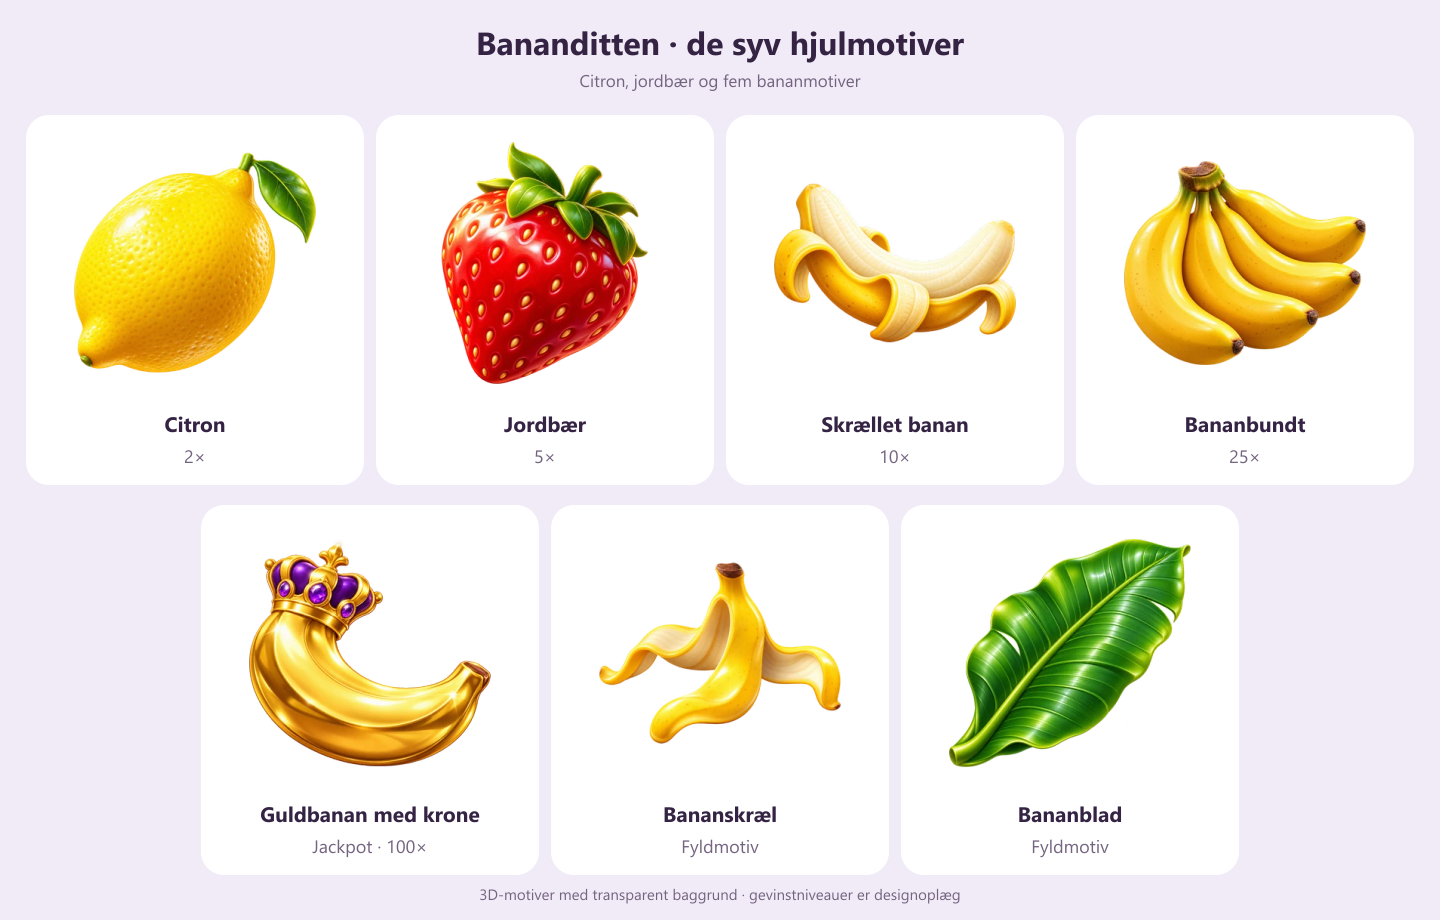
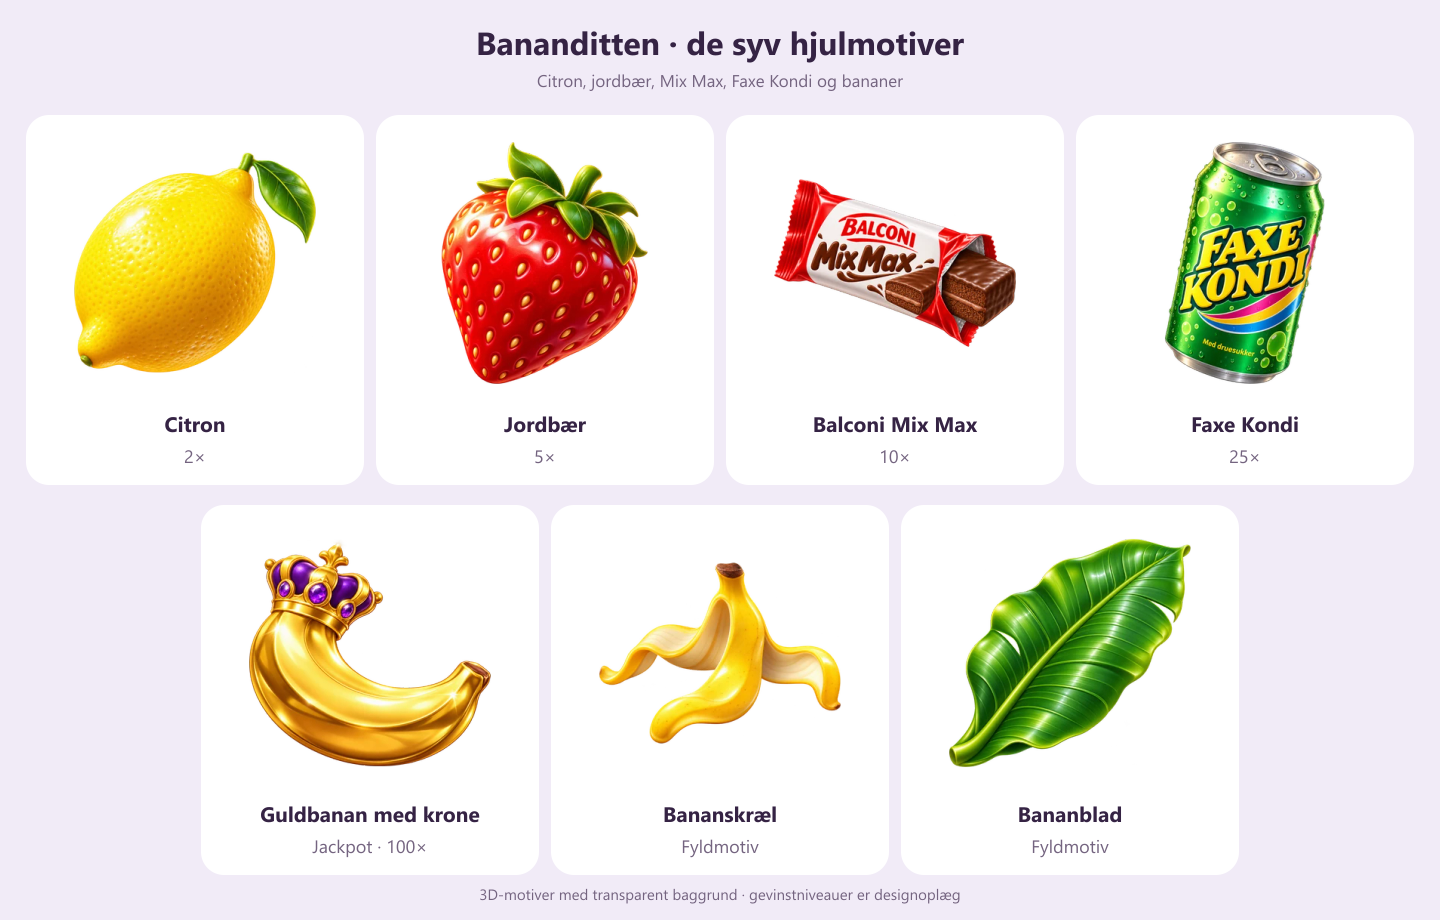
Replace two slot symbols with Mix Max and Faxe Kondi

diff --git a/docs/designs/bananditten-symbols/index.html b/docs/designs/bananditten-symbols/index.html
@@ -1,1 +1,1 @@
-<!doctype html><html lang="da"><meta charset="utf-8"><meta name="viewport" content="width=device-width,initial-scale=1"><title>Bananditten · motiver</title><style>body{font:16px system-ui;background:#1c1629;color:#fff0cc;margin:0;padding:28px}h1,p{text-align:center}main{max-width:1100px;margin:auto;display:grid;grid-template-columns:repeat(auto-fit,minmax(210px,1fr));gap:18px}figure{background:#2b213b;border-radius:24px;margin:0;padding:15px;text-align:center}img{width:100%;aspect-ratio:1;object-fit:contain}figcaption span{display:block;color:#b6a3c9;margin-top:7px}@media(prefers-color-scheme:light){body{background:#f1ebf7;color:#352344}figure{background:white}figcaption span{color:#746480}}</style><h1>Bananditten</h1><p>De syv hjulmotiver · gevinstniveauer er designoplæg</p><main><figure><img src="../../../public/games/bananditten/lemon.webp" alt="Citron"><figcaption><b>Citron</b><span>2×</span></figcaption></figure><figure><img src="../../../public/games/bananditten/strawberry.webp" alt="Jordbær"><figcaption><b>Jordbær</b><span>5×</span></figcaption></figure><figure><img src="../../../public/games/bananditten/peeled-banana.webp" alt="Skrællet banan"><figcaption><b>Skrællet banan</b><span>10×</span></figcaption></figure><figure><img src="../../../public/games/bananditten/banana-bunch.webp" alt="Bananbundt"><figcaption><b>Bananbundt</b><span>25×</span></figcaption></figure><figure><img src="../../../public/games/bananditten/crowned-banana.webp" alt="Guldbanan med krone"><figcaption><b>Guldbanan med krone</b><span>Jackpot · 100×</span></figcaption></figure><figure><img src="../../../public/games/bananditten/banana-peel.webp" alt="Bananskræl"><figcaption><b>Bananskræl</b><span>Fyldmotiv</span></figcaption></figure><figure><img src="../../../public/games/bananditten/banana-leaf.webp" alt="Bananblad"><figcaption><b>Bananblad</b><span>Fyldmotiv</span></figcaption></figure></main></html>
+<!doctype html><html lang="da"><meta charset="utf-8"><meta name="viewport" content="width=device-width,initial-scale=1"><title>Bananditten · motiver</title><style>body{font:16px system-ui;background:#1c1629;color:#fff0cc;margin:0;padding:28px}h1,p{text-align:center}main{max-width:1100px;margin:auto;display:grid;grid-template-columns:repeat(auto-fit,minmax(210px,1fr));gap:18px}figure{background:#2b213b;border-radius:24px;margin:0;padding:15px;text-align:center}img{width:100%;aspect-ratio:1;object-fit:contain}figcaption span{display:block;color:#b6a3c9;margin-top:7px}@media(prefers-color-scheme:light){body{background:#f1ebf7;color:#352344}figure{background:white}figcaption span{color:#746480}}</style><h1>Bananditten</h1><p>De syv hjulmotiver · gevinstniveauer er designoplæg</p><main><figure><img src="../../../public/games/bananditten/lemon.webp" alt="Citron"><figcaption><b>Citron</b><span>2×</span></figcaption></figure><figure><img src="../../../public/games/bananditten/strawberry.webp" alt="Jordbær"><figcaption><b>Jordbær</b><span>5×</span></figcaption></figure><figure><img src="../../../public/games/bananditten/mix-max.webp" alt="Balconi Mix Max"><figcaption><b>Balconi Mix Max</b><span>10×</span></figcaption></figure><figure><img src="../../../public/games/bananditten/faxe-kondi.webp" alt="Faxe Kondi"><figcaption><b>Faxe Kondi</b><span>25×</span></figcaption></figure><figure><img src="../../../public/games/bananditten/crowned-banana.webp" alt="Guldbanan med krone"><figcaption><b>Guldbanan med krone</b><span>Jackpot · 100×</span></figcaption></figure><figure><img src="../../../public/games/bananditten/banana-peel.webp" alt="Bananskræl"><figcaption><b>Bananskræl</b><span>Fyldmotiv</span></figcaption></figure><figure><img src="../../../public/games/bananditten/banana-leaf.webp" alt="Bananblad"><figcaption><b>Bananblad</b><span>Fyldmotiv</span></figcaption></figure></main></html>

diff --git a/docs/designs/bananditten-symbols/README.md b/docs/designs/bananditten-symbols/README.md
@@ -1,6 +1,6 @@
 # Bananditten – syv hjulmotiver
 
-2. november 2026. Genereret som syv separate kald med den indbyggede image_gen og `transparent_background: true`. Det fulde fælles prompt og de syv motivspecifikationer findes i [prompts.json](prompts.json). PNG-originalerne er gemt i denne mappe. De er visuelt kontrolleret, også samlet på lys og mørk baggrund.
+2. november 2026. Genereret med den indbyggede image_gen og `transparent_background: true`. Det første sæt findes i [prompts.json](prompts.json). Brugerens ændring fra skrællet banan/bananbundt til Balconi Mix Max/Faxe Kondi er beskrevet i [prompts-v2.json](prompts-v2.json). PNG-originalerne er gemt i denne mappe. De er visuelt kontrolleret, også samlet på lys og mørk baggrund.
 
 Optimerede transparente 384 × 384 WebP-filer ligger i `public/games/bananditten/`. Sharp er kun brugt til alpha-bevarende trimning, skalering, padding, komprimering og opsætning af oversigten. Alle syv originaler har alpha med helt transparente pixels; alle syv WebP-filer har alpha og samme dimensioner.
 
@@ -8,10 +8,14 @@ Optimerede transparente 384 × 384 WebP-filer ligger i `public/games/bananditten
 |---|---|---|
 | lemon | Citron | 2× |
 | strawberry | Jordbær | 5× |
-| peeled-banana | Skrællet banan | 10× |
-| banana-bunch | Bananbundt | 25× |
+| mix-max | Balconi Mix Max | 10× |
+| faxe-kondi | Faxe Kondi-dåse | 25× |
 | crowned-banana | Guldbanan med lilla/guld-krone | Jackpot 100× |
 | banana-peel | Tom bananskræl | Fyldmotiv |
 | banana-leaf | Bananblad | Fyldmotiv |
 
 [index.html](index.html) viser motiverne enkeltvis og følger systemets farvetema. [oversigt.png](oversigt.png) og [oversigt-lys.png](oversigt-lys.png) viser alle syv samlet. Gevinstmærkaterne er designoplæg; spil, odds og badgefunktioner er ikke implementeret i denne designændring.
+
+De tidligere PNG-originaler `peeled-banana.png` og `banana-bunch.png` er bevaret som designarkiv. De to tilhørende WebP-filer er erstattet af motiverne ovenfor.
+
+Visuel emballagereference: [Balconi Mix Max Classic](https://www.cerinicoffee.com/products/balconi-mix-max-classic) og [Faxe Kondi 33 cl](https://fsgfoods.dk/produkter/faxe-kondi-33cl-dase). Motiverne er genererede 3D-fortolkninger, ikke genbrugte produktfotos.
